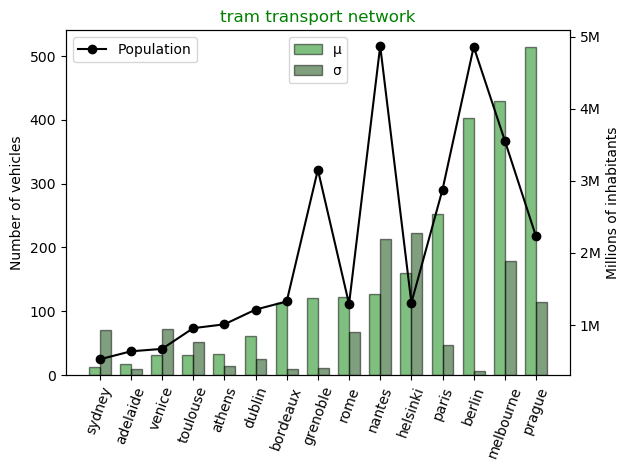
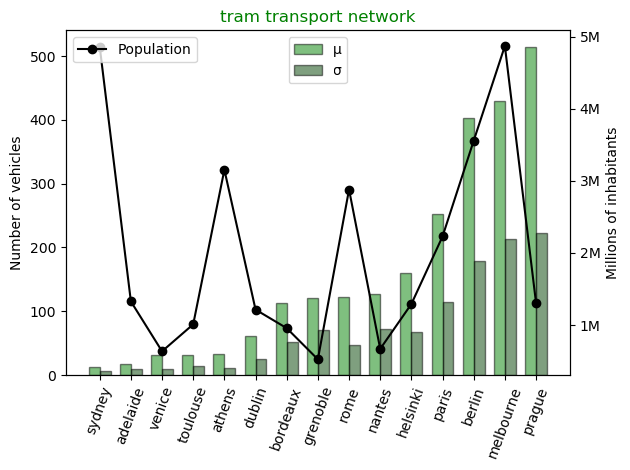
fixed bug over mu and st frequency plots

diff --git a/compare_frequencies_info.py b/compare_frequencies_info.py
@@ -28,20 +28,20 @@ if __name__ == '__main__':
 
     ''' Order all dictionaries based on means of frequency for each city'''
     ordered_means, ordered_stdev, area_population_dict_ordered = {}, {}, {}
-    for k, v in means.items():
-        ordered_means[k] = nf.order_dict_based_on_values(v)
-    labels = ordered_means[3].keys()
-    for k, v in stdev.items():
-        ordered_stdev[k] = nf.order_dict_based_on_list_keys(v, labels, True)
-    area_population_dict_ordered = nf.order_dict_based_on_list_keys(area_population_dict, labels)
+    for type_of_transport in means.keys():
+        ordered_means[type_of_transport] = nf.order_dict_based_on_values(means[type_of_transport])
+        ordered_stdev[type_of_transport] = nf.order_dict_based_on_list_keys(stdev[type_of_transport],
+                                                                            ordered_means[type_of_transport].keys())
 
     ''' Plot bars for mean and standard deviations with population info - all cities divided by type of transport '''
     for type in means.keys():
 
-        populations = [v['population'] for k, v in area_population_dict_ordered.items() if k in
-                       ordered_means[type].keys()]
+        labels = ordered_means[type].keys()
+        area_population_dict_ordered = nf.order_dict_based_on_list_keys(area_population_dict, labels, True)
+        populations = [v['population'] for k, v in area_population_dict_ordered.items()
+                       if k in ordered_means[type].keys()]
 
-        fig = nf.plot_bars_mu_st(labels=ordered_means[type].keys(), mus=ordered_means[type].values(),
+        fig = nf.plot_bars_mu_st(labels=labels, mus=ordered_means[type].values(),
                                  sts=ordered_stdev[type].values(), ylabel='Number of vehicles',
                                  type=type, feature=populations, feature_label='Population')
         # fig.show()
